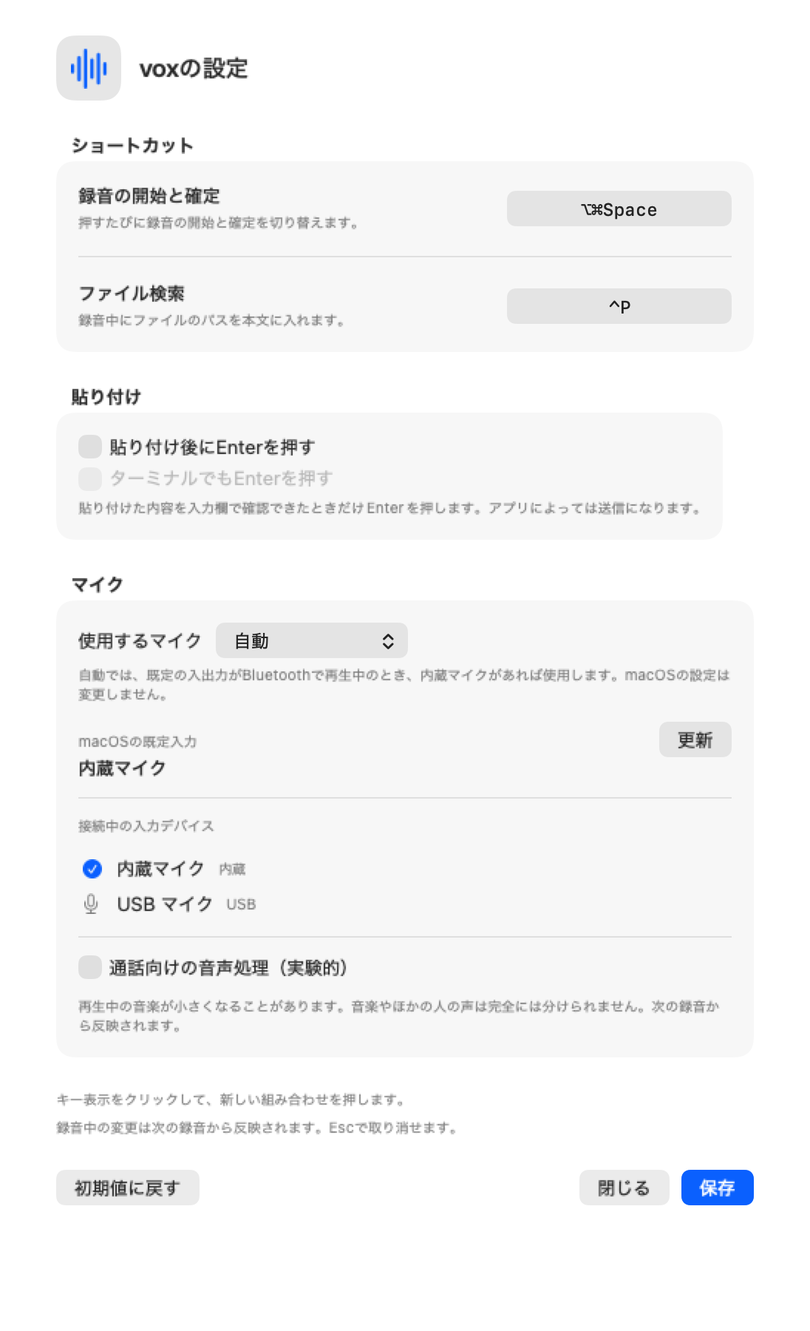
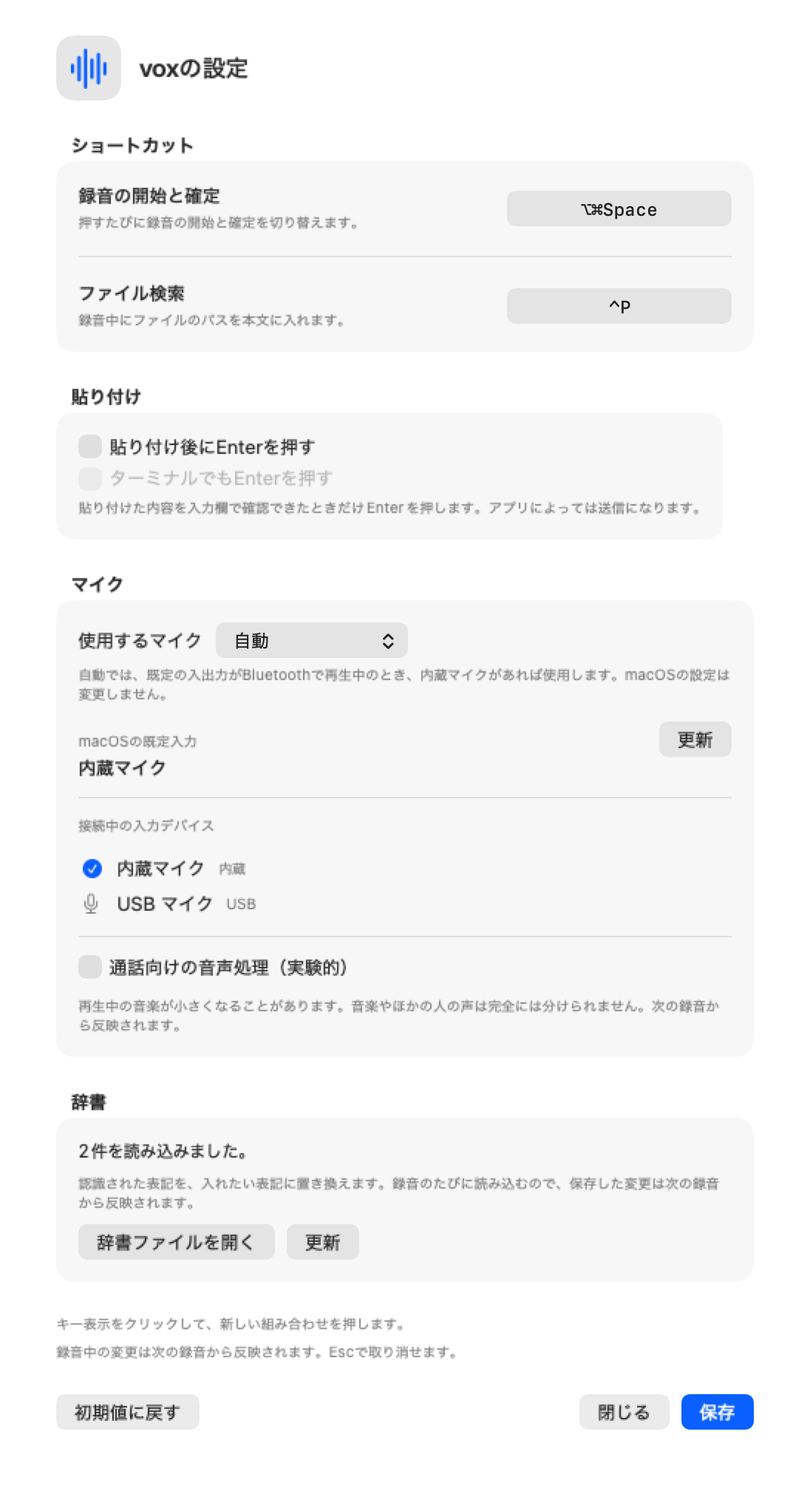
docs: record the dictionary and what it deliberately does not do
Add ADR-019 with the evidence behind the plain table: the reading Apple's
tokenizer returns cannot be pinned by a test, an edit distance would replace
the user's control with a threshold, and the left side people write is the
string they read in raw_text. Spec 05 now separates what runs from what is
still a design — the FluidAudio biasing stays as the note it always was, the
correction UI says it is not coming, and the L2 row carries the format, the
order and the limits it accepts.

Point usage, the setup skill, the known issues, the manual checks (DICT-01,
DICT-02) and the data locations at dictionary.tsv, and give the settings
image its own synthetic dictionary so the README picture matches the window
and still reads nothing from the user's home.

diff --git a/Sources/VoxDocImages/main.swift b/Sources/VoxDocImages/main.swift
@@ -31,8 +31,11 @@ func render() throws {
   let temporary = FileManager.default.temporaryDirectory.appendingPathComponent(UUID().uuidString)
   try FileManager.default.createDirectory(at: temporary, withIntermediateDirectories: true)
   defer { try? FileManager.default.removeItem(at: temporary) }
+  let dictionary = DictionaryStore(url: temporary.appendingPathComponent("dictionary.tsv"))
+  try Data("合成語\t架空語\n例示\t例示語\n".utf8).write(to: dictionary.url)
   let settings = SettingsModel(
     store: SettingsStore(url: temporary.appendingPathComponent("settings.json")), defaults: .standard,
+    dictionary: dictionary,
     microphoneProvider: {
       .available(devices: [
         MicrophoneDevice(id: 1, name: "内蔵マイク", transport: .builtIn, uid: "synthetic-builtin"),
@@ -41,9 +44,10 @@ func render() throws {
     })
   settings.toggleKey = "cmd+opt+space"
   settings.refreshMicrophones()
+  settings.refreshDictionary()
   let settingsView = SettingsView(model: settings)
     .background(Color(nsColor: .windowBackgroundColor))
-  let settingsHeight: CGFloat = 900 // Show the scrollable settings form including its save controls.
+  let settingsHeight: CGFloat = 1020 // Show the scrollable settings form including its save controls.
   try save(settingsView, size: CGSize(width: 548, height: settingsHeight), to: output.appendingPathComponent("settings.png"))
 
   let model = HudModel()

diff --git a/docs/adr/019-dictionary-surface-replacement.md b/docs/adr/019-dictionary-surface-replacement.md
@@ -1,0 +1,92 @@
+# ADR-019: 辞書は表記の完全一致で置換し、読みの正規化と形態素解析は入れない
+
+- 状態: **提案**（2026-09-23）
+- 関連: [ADR-012](012-filler-removal-rule-based.md)（フィラー除去は規則ベース）、[仕様 05](../specs/05-text-postprocessing.md)、[仕様 02](../specs/02-speech-engines.md)
+
+## 文脈
+
+実機で「末尾」と言うと「松尾」になる（2026-09-04 の報告、仕様 05）。開発用語が固有名詞に化ける誤認識は、
+発話のたびに手で直す必要があり、「喋ったほうが速い」が崩れる。
+
+採用エンジンの Apple `SpeechTranscriber` には語彙バイアスの公開 API が無い（仕様 02）。
+したがってデコード段で直す L1 は使えず、**認識後の置換（L2）が唯一の手段**である。
+
+仕様 05 は L2 の実装方式を「確定テキストをカタカナ読みに正規化し、辞書の読みと編集距離で照合して置換」と
+書いていた。この ADR はその方式を初版では採らないことを決める。
+
+## 判断
+
+**辞書は「表記 → 表記」の表とし、確定テキストに対して最長一致・完全一致で置換する。**
+
+- 辞書ファイルは `~/Library/Application Support/vox/dictionary.tsv`。1 行 = `置き換える表記<TAB>入れたい表記`。
+  `#` で始まる行と空白だけの行は無視する。ファイルが無い状態が「辞書を使わない」状態である
+- 照合は Character 単位の完全一致。大小・全半角・読みの正規化はしない。同じ語に表記の揺れがあれば行を足す
+- 同じ位置に複数の項目が当たるときは**左辺が長い項目**が勝つ。左辺が重複する行は最初の行だけを採る
+- 置換した結果は再走査しない（`A → B`、`B → C` を連鎖させない）
+- 右辺は空でよい。「なんか、」→「」のように、規則では消さないと決めた語（ADR-012）を利用者が消せる
+- 適用は **フィラー除去の前**、`committed` の追記分に対して。`tentative` と手入力には掛けない
+- 履歴の `raw_text` は置換前のまま（ADR-012 と同じ理由。置換は挿入用の変換であって記録を書き換えない）
+- 壊れた行（列数が合わない、左辺が空、左辺の重複）はその行だけ落として読み込みを続け、
+  設定画面が 1 始まりの行番号で知らせる
+- 辞書は録音開始時に 1 度読む。録音中にファイルを変えてもその回には効かない（設定と同じ扱い）
+
+## 理由
+
+**なぜ読みの正規化と編集距離を採らないか。** 4 つある。
+
+1. 読みの取得は Apple の形態素解析辞書（`CFStringTokenizer` の読み属性）に依存する。同じ入力に対する
+   読みが OS 更新で変わっても、検査で気づけない。表記の完全一致なら検査が入力と出力を完全に固定できる
+2. 読みに落とすと、当たった読みの範囲を元の文字範囲へ戻す対応づけが必要になる。表記一致には無い状態が増える
+3. 編集距離を入れると「どれだけ似ていれば置き換わるか」という閾値が増える。誤爆したときの説明が
+   「閾値のせい」になり、利用者が辞書を直して制御できなくなる
+4. 表記一致なら、利用者は履歴の `raw_text` で見た文字列をそのまま左辺に書ける。揺れが出たときの費用は
+   「行を足す」だけで、上限が見える
+
+**なぜ形態素解析を併用しないか。** 仕様 05 が挙げた「松尾さん」の誤爆は実在する。ただし辞書は利用者が
+自分で書く表であり、誤爆したら行を消せる。品詞と文脈で適用を絞る仕組みは、辞書サイズと遅延（軸 A は 300ms）と
+「なぜ今の行が効かないのか」という新しい説明責任を同時に持ち込む。仕様 05 の「まず素朴な読み置換を作り、
+誤爆が実際に出たら形態素解析を足す」という順序をそのまま守り、素朴さの側を表記一致に置き換える。
+
+**なぜフィラー除去より前か。** `FillerPass` の単独フィラーは左側の境界だけを要求するので（ADR-012 の
+2026-09-02 改訂）、文頭の「えーあい」は「あい」になる。除去を先にすると、フィラーと同じ音で始まる誤認識は
+辞書で直せない。また利用者が左辺に書く文字列は履歴の `raw_text`（除去前）で見た文字列なので、
+前に置くほうが対応が 1 対 1 になる。この順序は `CommittedText.clean` に 1 か所だけ置き、本体と検査が同じ実装を通る。
+
+**なぜ TSV か。** 壊れた行だけを落として続ける要件が形式を決めた。JSON は 1 か所の構文エラーで
+ファイル全体が読めなくなり、「12 行目だけ直してください」と言えない。行指向の形式なら行番号で言える。
+設定は `settings.json` のままで、辞書だけ別ファイル・別形式にする（設定画面で編集する項目ではないから）。
+
+**なぜ機能フラグを足さないか。** ファイルが無い、または行頭に `#` を付ける、が既に切る手段になっている。
+`--no-dictionary` は同じことを 2 つ目の方法で実現するだけである。
+
+## 却下した案
+
+| 案 | 却下理由 |
+|---|---|
+| カタカナ読み + 編集距離（仕様 05 の初版方式） | 上の 4 点。見直しの条件に回す |
+| 形態素解析で品詞・文脈を見て適用を絞る | 遅延と辞書サイズ、説明責任が増える。誤爆は行の削除で制御できる |
+| 辞書を `settings.json` の配列に入れる | 壊れた行を落として続けられない。設定画面で編集する項目でもない |
+| 置換を確定時の全文に 1 回だけ掛ける | HUD の表示と貼り付ける本文が一致しなくなる（ADR-012 の WYSIWYG） |
+| 計測 1 行に `dictionary_applied_count` を足す | schema 版とキー数の契約を 1 つの数字のために動かす。履歴の `raw_text` と `inserted_text` の差で同じことが分かる |
+| `--no-dictionary` フラグ | ファイルの退避と `#` で足りる |
+| 左辺が英数字のときだけ単語境界を要求する | 日本語の認識結果に英数字の左辺はまず現れない。使う前に作らない |
+| 置換後に読点・空白を畳む | 辞書は書いたとおりに置き換えるのが説明できる。読点まで消したいなら左辺に入れる |
+| 訂正 UI（語のクリック、⌃Z）と辞書候補の自動提案 | 差分の取得・候補の保存・提示 UI が一式必要で、辞書そのものより大きい。辞書が効くと分かってから判断する |
+
+## 結果として受け入れるもの
+
+- 短い左辺（1〜2 文字）は無関係な場所でも置き換わる。「松尾」→「末尾」を入れた人は「松尾さん」も壊れる。
+  利用者向けの文書に危険を書き、行を消せば戻ることを示す
+- 確定差分の境界をまたぐ語は当たらない（「松」と「尾」が別の認識結果で来た回）。既存のフィラー除去と同じ制約
+- 右辺を空にした置換の後、読点が連続して残ることがある
+- `tentative` のまま確定に間に合った末尾は、置換も除去も通らない。これは既存の挙動で、この ADR では変えない
+- `.tsv` を表計算アプリが開く環境では、保存し直すと形式が変わる。設定画面が「0 件」や行番号で知らせる
+
+## 見直しの条件
+
+- 同じ誤認識を直すために、表記の揺れで左辺を 3 行以上書かないと直らない事例が出たとき
+  → 読みの正規化（`CFStringTokenizer` の読み属性）を足す。編集距離はそのさらに次
+- 辞書を使っていて「正しい語まで置き換わる」報告が 2 回以上出たとき → 形態素解析での絞り込みを検討する
+- Apple `SpeechTranscriber` が語彙バイアスの API を公開したとき、または確定レーンに FluidAudio を入れる
+  判断をしたとき → L1 を再評価する（仕様 05 の L1 は現状の採用エンジンでは使えないだけで、否定されたわけではない）
+- 辞書の行数が数百を超えて置換が計測に見えるようになったとき → 走査を左辺の長さごとに分ける

diff --git a/.agents/skills/vox-setup/SKILL.md b/.agents/skills/vox-setup/SKILL.md
@@ -54,6 +54,7 @@ macOS が再起動を求めたら Vox を終了して開き直す。ソースか
 ```
 ~/Library/Application Support/vox/settings.json   ← 設定（0600）
 ~/Library/Application Support/vox/history.jsonl   ← 確定本文の履歴（0600）
+~/Library/Application Support/vox/dictionary.tsv  ← 辞書（0600、任意。無ければ置換しない）
 ```
 
 ### settings.json フィールド一覧（`Sources/VoxCore/HotkeySettings.swift`）
@@ -71,6 +72,19 @@ macOS が再起動を求めたら Vox を終了して開き直す。ソースか
 | `microphone_input` | object | `{"mode":"automatic"}` | Vox の入力選択。`automatic` は既定の入出力が Bluetooth 系・出力稼働中なら内蔵入力を優先し、なければ既定入力。`system_default` は常に準備時の既定入力。`device` は `uid` で機器を固定し、未接続なら開始エラー |
 
 マイクの指定は設定画面「使用するマイク」で保存する。個別指定の形式は `{"mode":"device","uid":"機器のUID"}`。UID は機器の再接続で変わりうる AudioDeviceID と区別し、診断ログには出さない。古い設定に `microphone_input` がなければ「自動」になる。macOS 全体の既定入力・既定出力は変更しない。録音中の設定変更は次の録音から反映する。
+
+### dictionary.tsv（`Sources/VoxCore/Transcript/DictionaryPass.swift`、ADR-019）
+
+設定画面の「辞書」→「辞書ファイルを開く」で作って開く。設定画面では編集せず、テキストエディタで直す。
+
+| 項目 | 内容 |
+|---|---|
+| 書式 | 1 行 = `置き換える表記<TAB>入れたい表記`。`#` で始まる行と空行は無視。右辺が空なら削除 |
+| 照合 | 表記の完全一致・最長一致。正規化（大小・全半角・読み）はしない。置換した結果は再走査しない |
+| 適用 | 音声由来の確定本文だけ。フィラー除去より前。手入力と履歴の `raw_text` には掛からない |
+| 上限 | 64KiB。超えると読み込まず、設定画面にエラーを出す |
+| 反映 | 録音開始時に読む。保存した変更は次の録音から |
+| 壊れた行 | その行だけ落として続行。設定画面が 1 始まりの行番号を出す |
 
 ### ショートカットの表記（`Sources/VoxCore/HotkeyBinding.swift`）
 
@@ -115,6 +129,7 @@ macOS が再起動を求めたら Vox を終了して開き直す。ソースか
 |---|---|
 | 設定 | Vox を終了して `rm ~/Library/Application\ Support/vox/settings.json` |
 | 履歴 | 同じく `history.jsonl` を削除 |
+| 辞書 | 同じく `dictionary.tsv` を削除（または別名に移す）。次の録音から置換しなくなる |
 | 権限 | システム設定 → プライバシーとセキュリティ → アクセシビリティ / 入力監視 で Vox を削除して追加し直す |
 
 ## よくあるトラブル
@@ -123,6 +138,7 @@ macOS が再起動を求めたら Vox を終了して開き直す。ソースか
 - **音楽が途切れる**: 「使用するマイク」を内蔵・USBなどへ指定して保存する。「自動」の切替は既定の入出力が Bluetooth 系かつ出力稼働中の場合だけ。「通話向けの音声処理」はオフにする。診断ログの `audio_input` が選択した機器、`audio_input_verified device_id= route=input_only` が開始後の機器確認を示す。録音直後に `audio_configuration_changed` が出る場合は録音が打ち切られている
 - **貼り付けが起きない**: メニューバー「診断ログを開く…」で `error` を見る。意味は `docs/development.md` の表。`input_target_changed_*` は確定時に前面アプリが変わっている
 - **Enter が省略される**: 修飾キーが押されたまま、入力先の変更、クリップボード競合で省略する。入力欄を読み返せないアプリ（ターミナル系）では `auto_enter_unverified` をオンにしないと送らない
+- **辞書が効かない**: 設定の「辞書」で「更新」を押し、件数と行番号を見る。0 件ならタブではなく空白で書いている。件数が合っていて効かないときは、置き換える表記が認識結果と 1 文字でも違う（履歴の `raw_text` と突き合わせる）か、認識が語の途中で区切られている。表計算アプリで保存し直すと形式が変わる
 - **更新したら権限が消えた**: 署名 identity の変更。上の「署名と権限の関係」
 - **Orca でファイル検索の対象が違う**: Orca の画面でアクティブなローカル worktree を対象にする。一意に決まらなければ `--repo` の設定フォルダ
 - **メニューが見つからない**: `Vox.app` をもう一度開くとセットアップ画面が出る。ウィンドウを閉じても常駐は続く

diff --git a/docs/MANUAL-VERIFICATION.md b/docs/MANUAL-VERIFICATION.md
@@ -148,6 +148,26 @@
 | **期待結果** | 選択したマイクを使い、オフは `route=input_only`、オンは `route=voice_processing` で、`device_id=` が選んだ機器の ID と一致する。オンで既定以外の機器を選ぶと構成変更で止まる場合がある。構成できない組合せは開始エラーになり、次の録音を試せる。オンは音量低下が残る場合があるため、オフでの再生継続と区別して記録する |
 | **検証状況** | 合成 Audio Unit の入力 element と EnableIO を書かないことは `InputConfigurationTests` で自動化済み。実機と AVAudioEngine の組合せは未確認 |
 
+## DICT — 辞書（表記の置換）
+
+### DICT-01 辞書に書いた表記が貼り付ける本文で置き換わる
+
+| 項目 | 内容 |
+|---|---|
+| **前提** | 設定画面の「辞書」で「辞書ファイルを開く」を押し、`置き換える表記<TAB>入れたい表記` の行を 1 つ書いて保存する（例: よく誤認識される語 → 入れたい表記） |
+| **手順** | 設定画面で「更新」を押して件数を確認し、その語を含む発話を録音して確定する |
+| **期待結果** | 貼り付けた本文では右側の表記になっている。HUD の表示も同じ（WYSIWYG）。`--print-history` の `raw_text` は置き換える前、`inserted_text` は置き換えた後になっている。HUD に自分で打った文字は置き換わらない |
+| **自動化済み** | `swift test --filter "DictionaryTests"`（置換・最長一致・辞書 → フィラー除去の順序）、`swift test --filter "DictionaryStoreTests"`（保存先の読み込み） |
+
+### DICT-02 壊れた行は落とし、直す行番号が設定画面に出る
+
+| 項目 | 内容 |
+|---|---|
+| **前提** | 辞書ファイルに、正しい行 1 つと、タブの代わりに空白で書いた行 1 つを混ぜて保存する |
+| **手順** | 設定画面の「辞書」で「更新」を押す |
+| **期待結果** | 「1件を読み込みました。2行目を読み込めませんでした。…」のように、読めた件数と直す行番号が出る。正しい行はそのまま効き、録音は止まらない。辞書ファイルを消して「更新」を押すと「辞書ファイルはまだありません。」に戻る |
+| **自動化済み** | `swift test --filter "SettingsViewTests"`（件数・行番号・打ち切りの文言） |
+
 ## PASTE — 元アプリへの貼り付け
 
 ### PASTE-01 元のアプリへ貼り付けられる

diff --git a/README.md b/README.md
@@ -20,6 +20,7 @@ English version: [README.en.md](README.en.md)
 - **リアルタイムに見える。** 話した内容は画面下端の HUD に文字で出ます。確定するまで元のアプリには何も入りません。
 - **確定は 1 回で貼り付け。** 録音キーをもう一度押すと、開始時に選んでいたアプリへ戻って本文をまとめて挿入します。
 - **フィラーは落とす。** 「えっと」「あの」などを規則で除いてから挿入します。履歴には元のテキストが残ります。
+- **よく間違う語は辞書で直せる。** 「置き換える表記」と「入れたい表記」を 1 行ずつ書いたファイルを置くと、貼り付ける本文で置き換えます。
 - **端末内で動く。** 認識は Apple の `SpeechTranscriber` です。ネットワークを使うのは初回のモデル取得だけで、音声も本文も外へは送りません。
 - **Enter まで任せられる（任意）。** 貼り付け後に Enter を送れます。入力欄を読み返して一致を確認してから送り、読み返せないアプリで送るかどうかだけを設定できます。
 
@@ -94,7 +95,7 @@ xattr -dr com.apple.quarantine /Applications/Vox.app
 
 *本体と同じ設定ビューを、合成した設定と架空のマイク情報でオフスクリーン描画しています。*
 
-設定画面はメニューバーの「設定…」、HUD の歯車、`⌘,` のいずれかで開きます。録音とファイル検索のショートカット、自動Enter、使用するマイク、通話向けの音声処理（実験的）を変更できます。
+設定画面はメニューバーの「設定…」、HUD の歯車、`⌘,` のいずれかで開きます。録音とファイル検索のショートカット、自動Enter、使用するマイク、通話向けの音声処理（実験的）を変更でき、辞書ファイルもここから開けます。
 
 マイクは「自動」が既定です。macOS の既定入力・出力がともに Bluetooth 系で出力が使用中なら、内蔵マイクがあれば録音に使います。「macOSの既定」や個別のマイクも選べます。macOS 全体の設定は変えません。各項目の意味は [使い方](docs/usage.md#設定) を参照してください。
 

diff --git a/docs/README.md b/docs/README.md
@@ -34,11 +34,11 @@
 | [specs/02-speech-engines.md](specs/02-speech-engines.md) | 採用エンジン、実測値、却下した候補 |
 | [specs/03-architecture.md](specs/03-architecture.md) | プロセス構成、キー体系、テキスト契約、挿入 |
 | [specs/04-command-palette.md](specs/04-command-palette.md) | パレット、sigil、検索対象の解決 |
-| [specs/05-text-postprocessing.md](specs/05-text-postprocessing.md) | 辞書と訂正（未実装） |
+| [specs/05-text-postprocessing.md](specs/05-text-postprocessing.md) | フィラー除去、辞書、訂正（訂正 UI は未実装） |
 | [specs/06-permissions-and-risks.md](specs/06-permissions-and-risks.md) | 権限と残っているリスク |
 | [specs/07-project-structure.md](specs/07-project-structure.md) | 目標のディレクトリ構成と責務の線 |
 | [specs/references.md](specs/references.md) | 出典 |
-| [adr/README.md](adr/README.md) | 技術判断の理由と見直し条件（ADR 001〜013） |
+| [adr/README.md](adr/README.md) | 技術判断の理由と見直し条件（ADR 001〜019） |
 
 - 挙動を変えたら [specs/](specs/README.md) の該当ファイル、利用者に見える変更なら [usage.md](usage.md)、開発コマンドを変えたら [development.md](development.md)。
 - 「なぜそうしたか」が変わったら [adr/](adr/README.md) に追加する。既存の ADR は書き換えない。

diff --git a/images/README.md b/images/README.md
@@ -1,10 +1,10 @@
 # README の画面例
 
-- `settings.png`: 本体と同じ `SettingsView` を合成設定・架空のマイク情報でオフスクリーン描画したもの。
+- `settings.png`: 本体と同じ `SettingsView` を合成設定・架空のマイク情報・架空の辞書（2 行）でオフスクリーン描画したもの。
 - `palette-tree.png`: 本体の `PaletteView` を架空のプロジェクト・ファイル・プレビュー本文で描画。索引取得や実ファイルのプレビューは行わない。
 - `hud-example.png`: 本体と同じ `TranscriptEditor` に合成文と架空パスを入れ、周囲の HUD を再現したイメージ。実行中画面のキャプチャではない。
 
-録音・入力監視・前面アプリの取得・スクリーンキャプチャは行わない。個人の設定ファイル・発話履歴を読み込まない。キーは変更例として cmd+opt+space を表示し、製品の既定値とは区別する。
+録音・入力監視・前面アプリの取得・スクリーンキャプチャは行わない。個人の設定ファイル・辞書・発話履歴を読み込まない。キーは変更例として cmd+opt+space を表示し、製品の既定値とは区別する。
 
 再生成:
 

diff --git a/docs/KNOWN-ISSUES.md b/docs/KNOWN-ISSUES.md
@@ -29,3 +29,6 @@
 | モデル比較条件の統一 | モデル版・コーパス・比較条件を統一した上でのベンチ比較 | T29 |
 | 本体のモデル切り替え | 音声認識モデルを本体の設定から切り替える機能 | T30 |
 | 画像貼り付け | HUD／チャット風の編集 UI にクリップボードの画像を貼り付け、音声本文と一緒に扱う機能。設計は未着手 | Backlog（画像を入力セッションに貼り付ける） |
+| 辞書の読み一致（L2'） | 辞書は表記の完全一致だけで、読みの正規化と編集距離は持たない。表記の揺れは行を足して対応する | ADR-019 の見直しの条件 |
+| 辞書の誤爆の絞り込み | 短い左辺は無関係な場所でも置き換わる（「松尾」→「末尾」は「松尾さん」も壊す）。形態素解析での絞り込みは未実装 | ADR-019 の見直しの条件 |
+| 訂正 UI | 確定した語のクリック候補、`⌃Z` での訂正、訂正から辞書候補を提案する導線 | 仕様 05「訂正」、ADR-019 |

diff --git a/docs/adr/README.md b/docs/adr/README.md
@@ -29,3 +29,4 @@
 | [013](013-library-app-and-test-targets.md) | 本体をライブラリ + 薄い executable にし、検査は testTarget に統一する | 承認 | 2026-09-07 |
 | [014](014-auto-enter-readability-decides.md) | 自動 Enter は読み返せるかで自動判定し、読めないときの送信だけを設定にする | 承認 | 2026-09-08 |
 | [016](016-microphone-selection-input-only.md) | マイクを Vox 内で選び、通常録音を入力専用 AUHAL で開く | 承認 | 2026-09-23 |
+| [019](019-dictionary-surface-replacement.md) | 辞書は表記の完全一致で置換し、読みの正規化と形態素解析は入れない | 提案 | 2026-09-23 |
